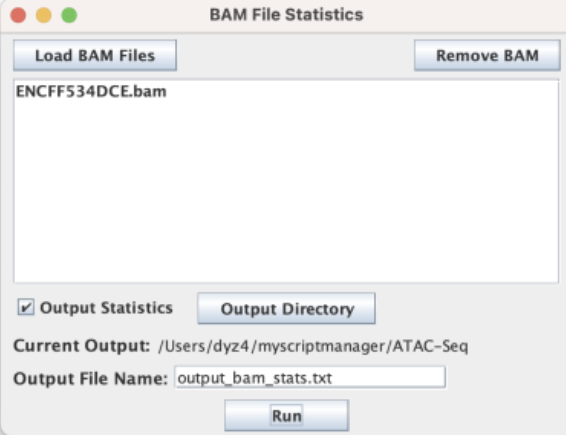
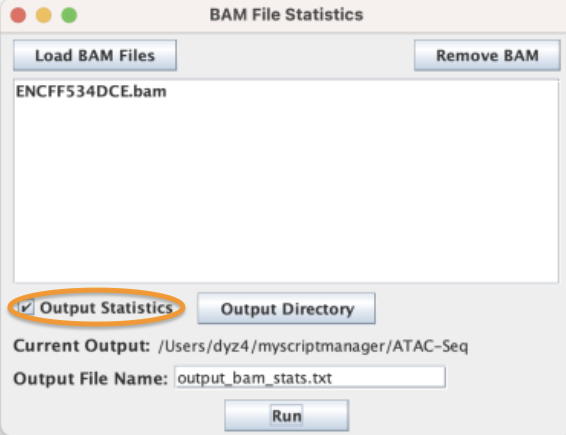
Atac-seq Tutorial Addition

Changed region(s): [[0.0, 0.6575, 0.3304, 0.777]]

diff --git a/docs/Guides/Tutorials/atac-seq-tutorial.md b/docs/Guides/Tutorials/atac-seq-tutorial.md
@@ -1,20 +1,20 @@
 ---
-id: chipexo-tutorial
-title: "ChIP-exo Tutorial"
-sidebar_label: "ChIP-exo"
+id: atacseq-tutorial
+title: "ATAC-seq Tutorial"
+sidebar_label: "ATAC-seq"
 ---
 
 import Tabs from '@theme/Tabs';
 import TabItem from '@theme/TabItem';
 import Link from '@docusaurus/Link';
 
-_Generating two basic sequence-specific ChIP-exo plots: composite and heatmap_
+_Generating two basic sequence-specific ATAC-Seq plots: composite and heatmap_
 
-**Goal:** This tutorial provides a guide to generating 2 basic plots (Composite plot and Heatmap) using the ScriptManager platform and data generated by the [Yeast Epigenome project][yep-stencil].
+**Goal:** This tutorial provides a guide to generating 2 basic plots (Composite plot and Heatmap) using the ScriptManager platform and data generated by the [Stanford Encode Project][encode-project].
 
 <div class="tutorial-img-flow-container">
-  <img src={require('/gallery/ChIP-exo_heatmap.png').default} style={{width:20+'%',}}/>
-  <img src={require('/gallery/ChIP-exo_composite.png').default} style={{width:70+'%',}}/>
+  <img src={require('./img_atacseq/Atac-Seq_heatmap.png').default} style={{width:20+'%',}}/>
+  <img src={require('./img_atacseq/Atac-seq_composite.png').default} style={{width:70+'%',}}/>
 </div>
 
 ## Download ScriptManager (v0.14):
@@ -29,11 +29,11 @@ You need one set of genomic coordinate regions to investigate (BED) and one file
 
 
 ### BED File
-This is the set of Reb1 binding sites from the [Rossi et al (2018)][rossi-2018].
+This is a set of genomic regions based on the GRCh38 human genome reference build and is derived from the known genes track provided by the UCSC Genome Browser. 
 
 <Link
   className="button button--secondary"
-  href="https://github.com/CEGRcode/2018-Rossi_GenomeResearch/blob/master/Fig1_Reb1/A.Reb1_Rhee_primary_sites_975.bed">
+  href="file:///Users/alimadeen/Downloads/UCSC_GRCh38_knownGene_GENCODEV3_ALL-TSS_2000bp.bed">
   Download sample BED file
 </Link>
 
@@ -41,33 +41,17 @@ This is the set of Reb1 binding sites from the [Rossi et al (2018)][rossi-2018].
 <br />
 
 :::caution
-If your BED file downloads with a `.txt` extension, make sure to change the filename to a `.bed` extension. For this tutorial, the BED file is named `Reb1_Rhee_primary_sites_975.bed`.
+If your BED file downloads with a `.txt` extension, make sure to change the filename to a `.bed` extension. For this tutorial, the BED file is named `UCSC_GRCh38_knownGene_GENCODEV3_ALL-TSS_2000bp.bed`.
 :::
 
 ### BAM File
-This is the set of Reb1 read alignments from the Yeast Epigenome Project (YEP). [See Rossi et al (2021)][rossi-2021] for more details.
+This is the set of read alignments from Stanford Encode Project. 
 
 <Link
   className="button button--secondary"
-  href="ftp://data1.commons.psu.edu/pub/commons/eberly/pughlab/yeast-epigenome-project/12141_YEP.zip">
+  href="https://www.encodeproject.org/files/ENCFF534DCE/@@download/ENCFF534DCE.bam">
   Download sample BAM file
 </Link>
-
-OR
-
-<div class="tutorial-img-flow-container">
-  <img src={require('./img/download-yep-home.png').default} style={{width:60+'%'}} />
-</div>
-
-1. Navigate to [www.yeastepigenome.org][yep-stencil] and search for Reb1
-2. Select "META DATA"
-3. Select "Direct Download"
-4. Unzip the resulting file ‘12141_YEP.zip’ and inspect the contents of the new `12141_YEP` folder. It should contain a file called `12141_filtered.bam`.
-
-<div class="tutorial-img-flow-container">
-  <img src={require('./img/download-yep-reb1.png').default} style={{width:50+'%'}} />
-  <img src={require('./img/download-yep-reb1-metadata.png').default} style={{width:50+'%'}} />
-</div>
 
 ## Generate the Plots
 
@@ -124,12 +108,11 @@ A BAI index file is required for each BAM file of interest (i.e., the tag occupa
 
 SAM/BAM standard is to keep BAI file in same directory as BAM file with the ScriptManager-generated filename.
 ```bash
-Reb1_YEP_12141.bam
-Reb1_YEP_12141.bam.bai  # Need to generate this file to proceed.
+ENCFF534DCE.bam
+ENCFF534DCE.bam.bai  # Need to generate this file to proceed.
 ```
 
 :::
-
 
 #### 2.1. Navigate to BAM Manipulation ➡ [__BAM-BAI Indexer__][bam-indexer]
 
@@ -137,10 +120,10 @@ Reb1_YEP_12141.bam.bai  # Need to generate this file to proceed.
   <img src={require('./img/maingui-bamidx.png').default} style={{width:60+'%',}} />
 </div>
 
-#### 2.2. Generate BAI index files for each BAM file of interest by loading your BAM file and clicking "Index."
+#### 2.2. Generate BAI index files for each BAM file of interest by loading your BAM file and clicking "Index." (228,000,000 tags processed)
 
 <div class="tutorial-img-flow-container">
-  <img src={require('./img/gui-bamidx.png').default} style={{width:60+'%',}}/>
+  <img src={require('./img_atacseq/gui-bamidx2.png').default} style={{width:60+'%',}}/>
   <i class="fa-solid fa-arrow-right fa-lg"></i>
   <img src={require('./img/gui-bamidx-complete.png').default} style={{width:30+'%',}}/>
 </div>
@@ -149,60 +132,69 @@ Reb1_YEP_12141.bam.bai  # Need to generate this file to proceed.
 The speed of this step scales with the size of the BAM file. Generally this step 30 sec for a 100 MB BAM file but may take 1-2 min for a multi-GB BAM file.
 :::
 
-### 3. Resize the Reb1 motif-aligned BED file
+### 3. BAM File Statistics
+The BAM File Statistics is a Quality Control feature that includes alignment statistics that can be used to check what the data looks like. 
+
+#### 3.1. Navigate to BAM Statistics ➡ [__BAM-Statistics__][bam-statistics] 
+<div class="tutorial-img_atacseq-flow-container">
+  <img src={require('./img_atacseq/bamstatistics(1).png').default} style={{width:60+'%',}} />
+</div>
+
+#### 3.2. Select Output Statistics 
+<div class="tutorial-img_atacseq-flow-container">
+  <img src={require('./img_atacseq/bamstats(2).png').default} style={{width:60+'%',}}/>
+  <img src={require('./img_atacseq/bamstatsfile.png').default} style={{width:60+'%',}}/>
+</div>
+
+### 4. Resize the GRCh38 BED file
 The BED file is the set of reference coordinates that your heatmap and composite plots will be aligned to, but you’ll need to specify how far upstream and downstream you want your data to be plotted; i.e., “Size of Expansion (bp). If you bed file is defined by more than a 1 bp interval AND you want to add to limits of that interval, then select  “Add to Border”).
 
-#### 3.1. Navigate to Coordinate File Manipulation ➡ [__Expand BED File__][expand-bed]
+#### 4.1. Navigate to Coordinate File Manipulation ➡ [__Expand BED File__][expand-bed]
 
 <div class="tutorial-img-flow-container">
   <img src={require('./img/maingui-expandbed.png').default} style={{width:60+'%',}}/>
 </div>
 
 
-#### 3.2. For this tutorial, use the 250bp expansion and select "Expand from Center".
+#### 4.2. For this tutorial, use the 5000bp expansion and select "Expand from Center".
 
 <div class="tutorial-img-flow-container">
-  <img src={require('./img/gui-expandbed.png').default} style={{width:60+'%',}}/>
+  <img src={require('./img_atacseq/gui-expandbed2.png').default} style={{width:60+'%',}}/>
   <i class="fa-solid fa-arrow-right fa-lg"></i>
   <img src={require('./img/gui-expandbed-complete.png').default} style={{width:30+'%',}}/>
 </div>
 
-:::tip
-BED file coordinates often need to be resized for more informative tag pileups. For Reb1 (yeast), 250-500 bp windows are generally sufficient. Mammalian samples may require larger windows (500-2000 bp) based on the amount of indirect-crosslinking
-:::
 
-
-### 4. Generate the tag pileup
+### 5. Generate the tag pileup
 Use TagPileup to pileup the BAM data within a set of BED coordinate windows to generate the composite plot and the matrix(CDT) files that will be used to generate the heatmaps.
 
-#### 4.1. Navigate to Sequence Read Analysis ➡ [__Tag Pileup__][tag-pileup]
+#### 5.1. Navigate to Sequence Read Analysis ➡ [__Tag Pileup__][tag-pileup]
 
 <div class="tutorial-img-flow-container">
   <img src={require('./img/maingui-tagpileup.png').default} style={{width:60+'%',}}/>
 </div>
 
-#### 4.2. Load the BED and BAM files
+#### 5.2. Load the BED and BAM files
 
-#### 4.3. Select output directory & make sure "Output Matrix", "CDT", and "Output GZIP" are selected
+#### 5.3. Select "Full Fragment", "Combined" color , "Output Composite", "CDT", and "Output GZIP". Then, select "Output Directory".
 
 + Bioinformatic projects should be organized in a uniform and consistent manner as described below
 
 + [Paper on how to organize bioinformatics projects (Noble 2009)][noble2009]
 
 <div class="tutorial-img-flow-container">
-  <img src={require('./img/gui-tagpileup.png').default} style={{width:100+'%',}}/>
+  <img src={require('./img_atacseq/gui-tagpileup2.png').default} style={{width:100+'%',}}/>
 </div>
 
-#### 4.4. When ready, select ‘Pile Tags’ to execute
-
+#### 5.4. When ready, select ‘Pile Tags’ to execute
 :::tip
-The default parameters Tag Pileup is set to expect is a sequence-specific strand separated ChIP-exo dataset. Modifications to these parameters are needed for more specific analysis or when using data generated from other assays.
+The default parameters Tag Pileup is set to expect is a sequence-specific strand separated Atac-seq dataset. Modifications to these parameters are needed for more specific analysis or when using data generated from other assays.
 :::
 
-#### 4.5. Save composite results
+#### 5.5. Save composite results as PNG
 
 <div class="tutorial-img-flow-container">
-  <img src={require('./img/gui-tagpileup-out.png').default} style={{width:100+'%',}}/>
+  <img src={require('./img_atacseq/tagpileupsave.png').default} style={{width:100+'%',}}/>
 </div>
 
 + The displayed composite plot can be modified by right-clicking and selecting properties. Things such as axis labels, axis range, and colors can be modified here.
@@ -213,108 +205,51 @@ The default parameters Tag Pileup is set to expect is a sequence-specific strand
 Besides the composite plot image, ScriptManager has saved the matrix \*.CDT files to your Output Directory together with the composite plot values file (If you didn't change the name it would be called `composite_average.out`). These CDT files will be used as the input for generating heatmaps in the next step.
 :::
 
+### 6. Sort BED file by CDT file
+Use Sort BED files by CDT to sort the entries based on chromosome name (C), followed by the start position (D), and then by the end position (T).
 
-### 5. Generate Heatmaps
+#### 6.1. Navigate to Coordinate File Manipulation ➡ [__Sort-BED__][sort-BED].
+<div class="tutorial-img-flow-container">
+  <img src={require('./img_atacseq/bedtocdt_coordinate.png').default} style={{width:60+'%',}}/>
+</div>
+
+#### 6.2. Load BED & CDT File from Tag Pileup
+<div class="tutorial-img-flow-container">
+  <img src={require('./img_atacseq/loadbed:bam.png').default} style={{width:60+'%',}}/>
+</div>
 
 
-#### 5.1. Navigate to Figure Generation ➡ [__Heat Map__][heatmap].
+#### 6.3. Change Expansion Size to 1000 from Center 
+<div class="tutorial-img-flow-container">
+  <img src={require('./img_atacseq/bed+cdt_expansion.png').default} style={{width:60+'%',}}/>
+</div>
+
+#### 6.4. Select Base Output File Name for sorted BED & CDT Files 
+<div class="tutorial-img-flow-container">
+  <img src={require('./img_atacseq/outputfile.png').default} style={{width:60+'%',}}/>
+</div>
+
+### 7. Generate Heatmaps
+
+#### 7.1. Navigate to Figure Generation ➡ [__Heat Map__][heatmap].
 
 <div class="tutorial-img-flow-container">
   <img src={require('./img/maingui-heatmap.png').default} style={{width:60+'%',}}/>
 </div>
 
-#### 5.2. Heatmap Generator can only generate one color at a time, so ‘Sense’ and ‘Anti’ files should be processed separately. The ChIP-exo standard for strand colors is ‘Sense’ == blue and ‘Anti’ == red.
+#### 7.2. Load the sorted CDT file
 
-Start by generating the 'Sense' heatmap first.
+#### 7.3. Select "Custom" for color, and change the Contrast Threshold to "Percentile Value".The heatmaps for this dataset show the best contrast when using the default "Percentile Threshold" value (.95 or 95%). 
 
-#### 5.3. Click "Load Files" and select the `_sense.cdt` output CDT files from running the TagPileup step.
+#### 7.4. Click the "Output Heatmap" checkbox. The Heatmap generator does not save the produced PNG by default.
 
-#### 5.4. Select "blue" for the color (per the lab standard)
-
-#### 5.5. The heatmaps for this dataset show the best contrast when using the default "Percentile Threshold" value (.95 or 95%).  Otherwise your heatmaps will come out too light or too dark to see the shape.
-
-#### 5.6. Click the "Output Heatmap" checkbox. The Heatmap generator does not save the produced PNG by default.
-
-#### 5.7. Click "Generate" to save your Sense PNG heatmap!
+#### 7.5. Click "Generate" to save your PNG heatmap!
 
 <div class="tutorial-img-flow-container">
-  <img src={require('./img/gui-heatmap-sense.png').default} style={{width:40+'%',}}/>
+  <img src={require('./img_atacseq/gui-heatmp.png').default} style={{width:40+'%',}}/>
   <i class="fa-solid fa-arrow-right fa-lg"></i>
-  <img src={require('./img/gui-heatmap-sense-out.png').default} style={{width:40+'%',}}/>
+  <img src={require('./img_atacseq/gui-heatmap-out.png').default} style={{width:40+'%',}}/>
 </div>
-
-
-:::tip
-"Percentile Threshold" is a useful for looking at the shape of ChIP-exo binding patterns while "Absolute Threshold" is useful for setting a shared contrast threshold across several samples and comparing signal density. For other data, you may need to play around with settings to find the right contrast for you data.
-:::
-
-
-Similarly generate the 'Anti' heatmap.
-
-#### 5.8. Remove the "Sense" file by selecting it to highlight it and then clicking the "Remove Files button"
-
-#### 5.9. Click "Load Files" and select the `_anti.cdt` output CDT files from running the TagPileup step.
-
-#### 5.10. Select "red" for the color (per the lab standard)
-
-#### 5.11. Since all the other parameters should be the same from you "Sense" run, you shouldn't need to re-select the "Percentile Threshold" or "Output Heatmap" options.
-
-#### 5.12. Click "Generate" to save you Anti PNG heatmap!
-
-<div class="tutorial-img-flow-container">
-  <img src={require('./img/gui-heatmap-anti.png').default} style={{width:40+'%',}}/>
-  <i class="fa-solid fa-arrow-right fa-lg"></i>
-  <img src={require('./img/gui-heatmap-anti-out.png').default} style={{width:40+'%',}}/>
-</div>
-
-
-### 6. Merge strand-separated heatmaps
-
-#### 6.1. Navigate to Figure Generation ➡ [__Merge Heatmaps__][merge-heatmap] so we can merge our strand-separated heatmaps into a single PNG.
-
-<div class="tutorial-img-flow-container">
-  <img src={require('./img/maingui-mergehm.png').default} style={{width:60+'%',}}/>
-</div>
-
-The script will automatically match sense to anti heatmaps using the standardized naming conventions used by ScriptManager
-
-#### 6.2. Click "Load PNG Files" to select the two files output by the HeatMap tool (sense and anti) in the last step
-
-#### 6.3. Click "Generate" to merge the PNG files into the same heatmap
-
-<div class="tutorial-img-flow-container">
-  <img src={require('./img/gui-mergehm.png').default} style={{width:50+'%',}} />
-  <i class="fa-solid fa-arrow-right fa-lg"></i>
-  <img src={require('./img/gui-mergehm-out.png').default} style={{width:40+'%',}}/>
-</div>
-
-
-### 7. Label your merged heatmaps
-
-#### 7.1. Navigate to Figure Generation ➡ [__Label Heatmaps__][label-heatmap] so we can add axes to the heatmap
-
-<div class="tutorial-img-flow-container">
-  <img src={require('./img/maingui-labelhm.png').default} style={{width:60+'%',}}/>
-</div>
-
-
-#### 7.2. Optionally type text into the fields to annotate your axes (Or leave them empty to just generate an SVG border)
-
-<div class="tutorial-img-flow-container">
-  <img src={require('./img/gui-labelhm.png').default} style={{width:40+'%',}}/>
-  <i class="fa-solid fa-arrow-right fa-lg"></i>
-  <img src={require('./img/gui-labelhm-dialog.png').default} style={{width:40+'%',}}/>
-</div>
-
-
-#### 7.3. Click "Generate" to create an SVG file that labels your PNG
-
-Open up your SVG file to see what it looks like! Use PowerPoint, Adobe Illustrator, or wherever you edit your publication figures to make any further edits!
-
-
-## General Comments
-Bioinformatic projects should be organized in a uniform and consistent manner so that you can easily find them in the future. Consider the organizational structure described in [__Noble, 2009__][noble-paper].
-
 
 ## Command-Line shell script
 
@@ -322,33 +257,31 @@ The following shell commands records the locations for a BED file, a BAM file, a
 
 ```bash
 SCRIPTMANAGER=/path/to/ScriptManager.jar
-BEDFILE=/path/to/Reb1_Rhee_primary_sites_975.bed
-BAMFILE=/path/to/12141_filtered.bam
+BEDFILE=/path/to/UCSC_GRCh38_knownGene_GENCODEV3_ALL-TSS_2000bp.bed
+BAMFILE=/path/to/ENCFF534DCE.bam
 OUTPUT=/path/to/myoutput
 
 samtools index $BAMFILE
-java -jar $SCRIPTMANAGER coordinate-manipulation expand-bed -c 250 $BEDFILE -o BED_250bp.bed
-java -jar $SCRIPTMANAGER read-analysis tag-pileup $BEDFILE $BAMFILE -o $OUTPUT\_composite.out -M $OUTPUT\_matrix
-java -jar $SCRIPTMANAGER figure-generation heatmap -p .95 --blue $OUTPUT\_matrix_sense.cdt -o SENSE.png
-java -jar $SCRIPTMANAGER figure-generation heatmap -p .95 --red $OUTPUT\_matrix_anti.cdt -o ANTI.png
-java -jar $SCRIPTMANAGER figure-generation merge-heatmap SENSE.png ANTI.png -o $OUTPUT\_heatmap.png
-java -jar $SCRIPTMANAGER figure-generation label-heatmap $OUTPUT\_heatmap.png \
-  -x "Reb1" -y "Reb1_Rhee_primary_sites_975" -l -250 -m 0 -r +250 -o $OUTPUT\_heatmap.svg
 
-rm BED_250bp.bed SENSE.png ANTI.png
+java -jar $SCRIPTMANAGER bam-statistics se-stat $BAMFILE -o $OUTPUT\_bam_stats.txt
+java -jar $SCRIPTMANAGER coordinate-manipulation expand-bed -c 5000 $BEDFILE -o BED_5000bp.bed 
+java -jar $SCRIPTMANAGER read-analysis tag-pileup --combined --full-fragment $OUTPUT/BED_5000bp.bed $BAMFILE -o $OUTPUT\_composite.out -M $OUTPUT\_matrix
+java -jar $SCRIPTMANAGER coordinate-manipulation sort-bed -c 1000 $OUTPUT/BED_5000bp.bed $OUTPUT\_matrix_combined.cdt -o $OUPUT\_SORT.cdt 
+java -jar $SCRIPTMANAGER figure-generation heatmap -p .95 --black $OUTPUT/_SORT.cdt.cdt -o heatmap.png                                              
+
+rm BED_5000bp.bed 
+
 
 # Output files:
+#  - /path/to/myoutput_bam_stats.txt
+#  - /path/to/myoutputBED_5000bp.bed 
 #  - /path/to/myoutput_composite.out
-#  - /path/to/myoutput_matrix_sense.cdt
-#  - /path/to/myoutput_matrix_anti.cdt
+#  - /path/to/myoutput_matrix_combined.cdt
+#  - /path/to/myoutput_SORT.cdt.cdt
 #  - /path/to/myoutput_heatmap.png
 ```
 
 [noble-paper]:https://journals.plos.org/ploscompbiol/article/file?id=10.1371/journal.pcbi.1000424&type=printable
-[yep-data]:ftp://data1.commons.psu.edu/pub/commons/eberly/pughlab/yeast-epigenome-project
-[yep-stencil]:http://www.yeastepigenome.org/
-[rossi-2018]:https://pubmed.ncbi.nlm.nih.gov/29563167/
-[rossi-2021]:https://pubmed.ncbi.nlm.nih.gov/33692541/
 [saccer3cegr-fasta]:https://github.com/CEGRcode/GenoPipe/blob/master/EpitopeID/utility_scripts/genome_data/download_sacCer3_Genome.sh
 [noble2009]:https://journals.plos.org/ploscompbiol/article/file?id=10.1371/journal.pcbi.1000424&type=printable
 [github-repo]:https://www.github.com/CEGRcode/scriptmanager
@@ -361,7 +294,11 @@ rm BED_250bp.bed SENSE.png ANTI.png
 [expand-bed]:/docs/Tools/coordinate-manipulation/expand-bed
 [tag-pileup]:/docs/Tools/read-analysis/tag-pileup
 [heatmap]:/docs/Tools/figure-generation/heatmap
-[merge-heatmap]:/docs/Tools/figure-generation/merge-heatmap
-[label-heatmap]:/docs/Tools/figure-generation/heatmap-labeler
 
 [file-formats]:/docs/Guides/Getting-Started/file-formats
+
+[encode-project]: /https://www.encodeproject.org/experiments/ENCSR868FGK/
+
+
+
+
